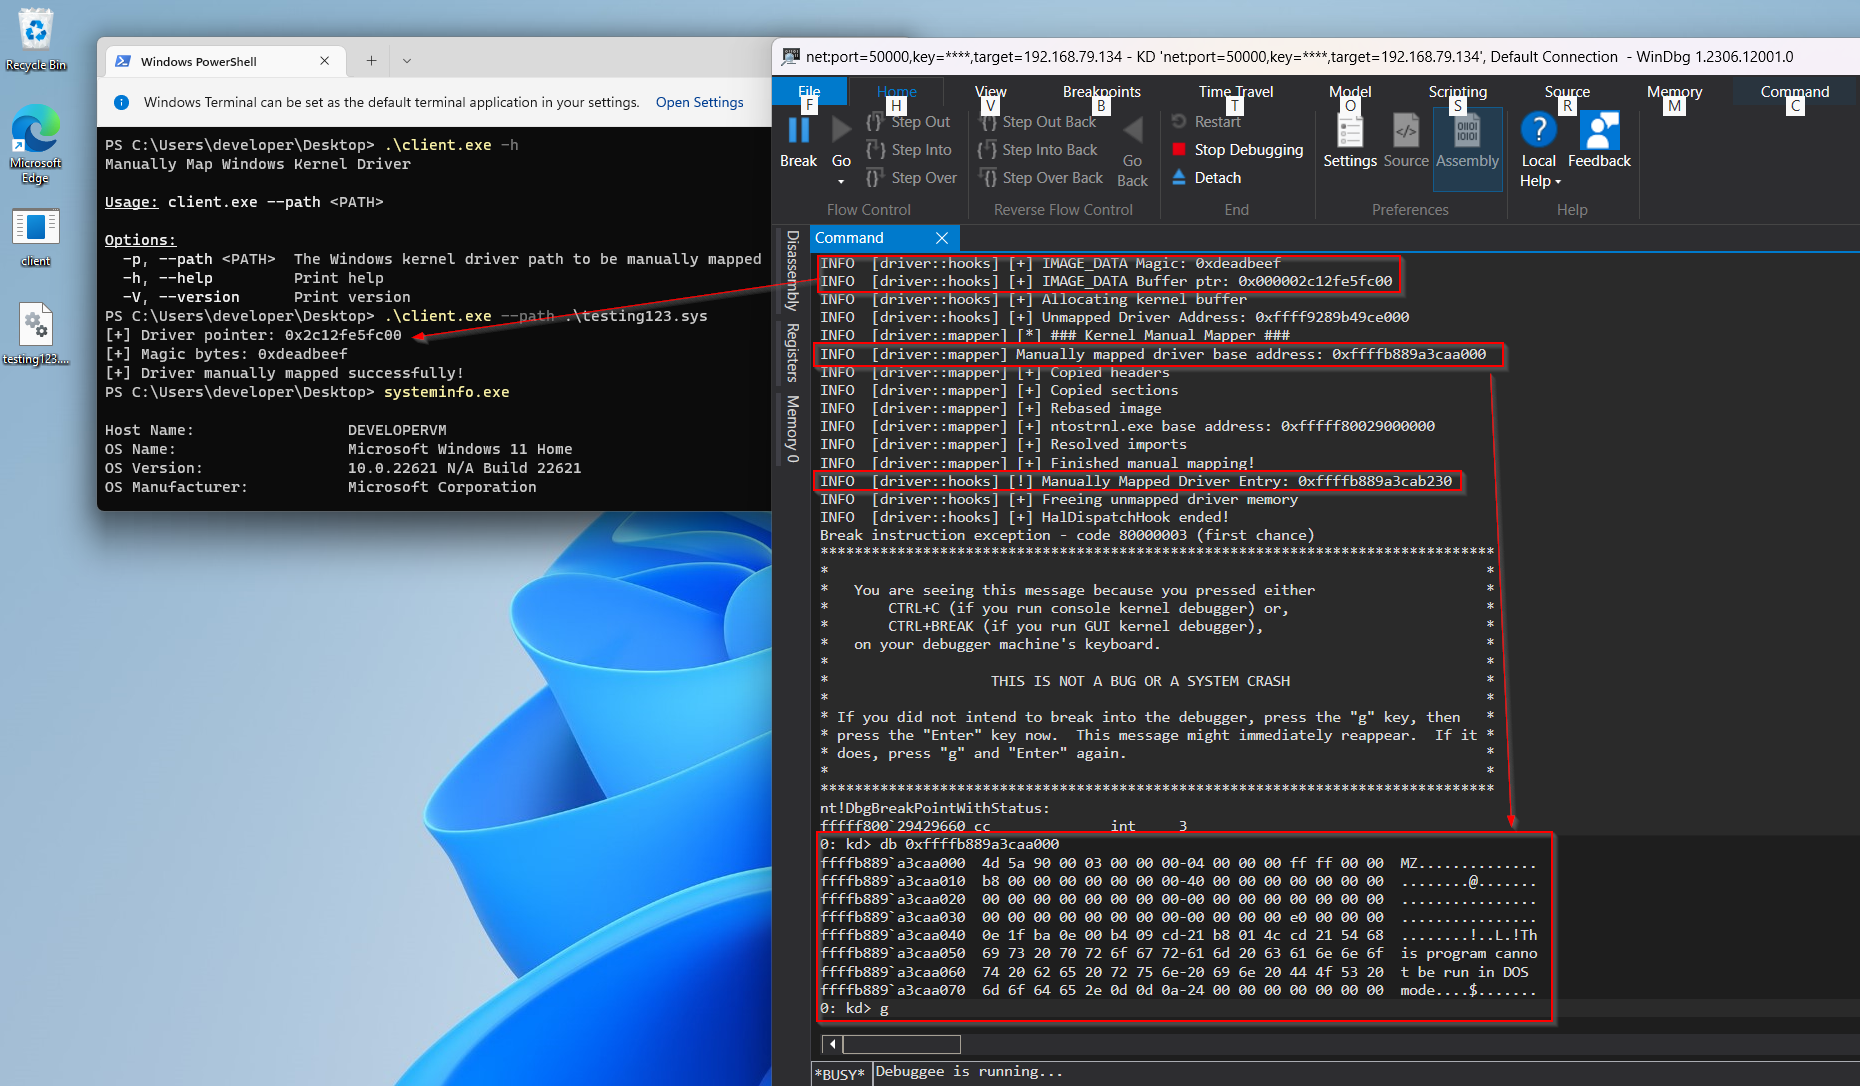
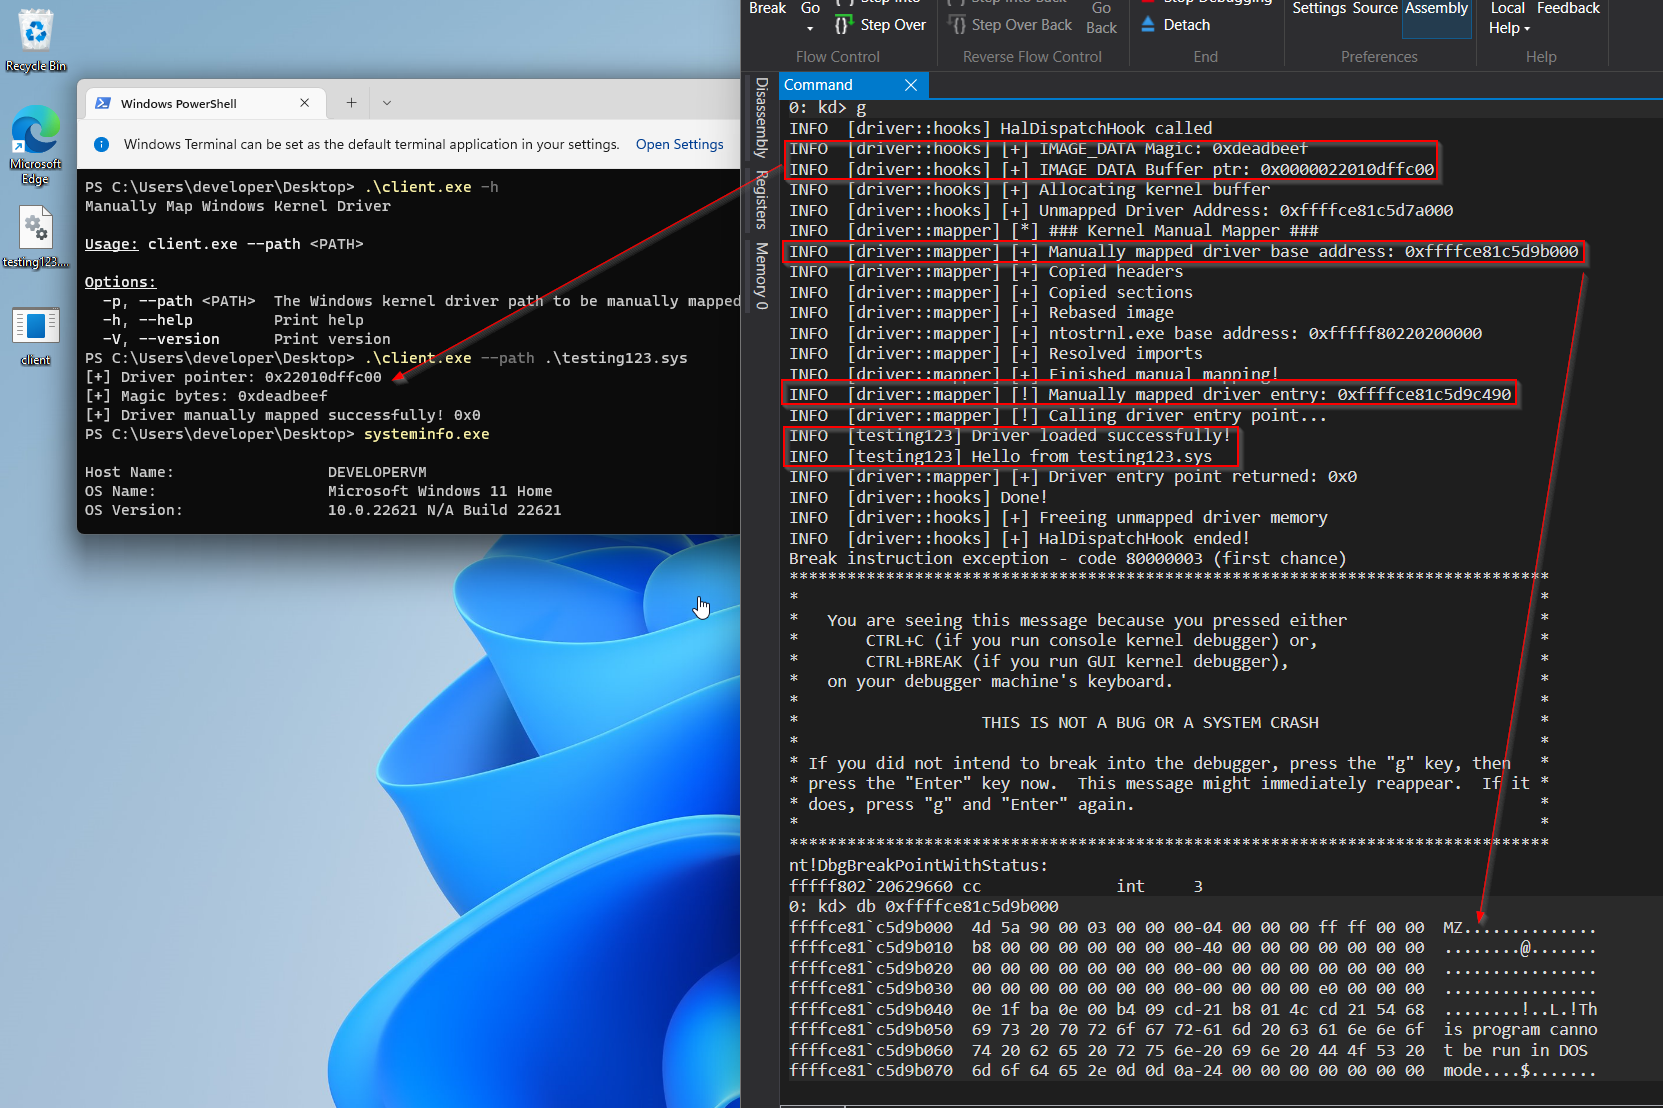
Mapped driver entry executed with NonPagedPoolExecute
* I had forgotten to push the commit for executing manually mapped driver's entry point.
* There was a bug in POOL_TYPE struct and it was not ported to Rust correctly.
* All fixed and working.
* Added testgin123 driver to test manual mapping
* Changed image in readme

diff --git a/driver/src/hooks/mod.rs b/driver/src/hooks/mod.rs
@@ -1,8 +1,6 @@
 use alloc::vec::Vec;
 extern crate alloc;
 use includes::ExGetPreviousMode;
-use kernel_alloc::nt::{ExAllocatePool, ExFreePool, PoolType};
-
 use mapper::manually_map;
 use winapi::{
     km::wdm::KPROCESSOR_MODE::UserMode,
@@ -15,7 +13,7 @@ use winapi::{
 use core::slice::from_raw_parts;
 
 use crate::{
-    includes,
+    includes::{self, ExAllocatePool, ExFreePool, NonPagedPool},
     mapper::{self, get_nt_headers},
     pe::{get_module_base, pattern_scan},
 };
@@ -31,7 +29,10 @@ pub fn setup_hooks() {
         unsafe { get_nt_headers(ntoskrnl_address as _).expect("Failed to get kernel nt headers") };
     let ntoskrnl_size = unsafe { (*nt_headers).OptionalHeader.SizeOfImage };
 
-    log::info!("[+] ntoskrnl.exe address: 0x{:x}", ntoskrnl_address as usize);
+    log::info!(
+        "[+] ntoskrnl.exe address: 0x{:x}",
+        ntoskrnl_address as usize
+    );
     log::info!("[+] ntoskrnl.exe size: 0x{:x}", ntoskrnl_size);
 
     // Read Windows kernel (ntoskrnl.exe) from memory and store in a slice
@@ -161,7 +162,7 @@ pub fn HalDispatchHook(image_data: *mut IMAGE_DATA, out_status: *mut i32) -> NTS
     log::info!("[+] Allocating kernel buffer");
 
     let unmapped_driver_kernel_buffer =
-        unsafe { ExAllocatePool(PoolType::NonPagedPool, (*image_data).buffer.len()) };
+        unsafe { ExAllocatePool(NonPagedPool, (*image_data).buffer.len()) };
 
     if unmapped_driver_kernel_buffer.is_null() {
         log::info!("[-] Failed to call ExAllocatePool");
@@ -182,22 +183,18 @@ pub fn HalDispatchHook(image_data: *mut IMAGE_DATA, out_status: *mut i32) -> NTS
         unmapped_driver_kernel_buffer
     );
 
-    let Some(mapped_driver_entry) = (unsafe { manually_map(unmapped_driver_kernel_buffer as _) }) else {
+    // Manually map the driver and call driver entry and return the status
+    let Some(status) = (unsafe { manually_map(unmapped_driver_kernel_buffer as _) }) else {
         log::info!("[-] Failed to manually map kernel driver");
         unsafe { ExFreePool(unmapped_driver_kernel_buffer as _) };
         unsafe { *out_status = STATUS_ACCESS_VIOLATION };
         return STATUS_SUCCESS;
     };
 
-    log::info!(
-        "[!] Manually mapped driver entry: {:#p}",
-        mapped_driver_entry
-    );
-    
     log::info!("Done!");
     log::info!("[+] Freeing unmapped driver memory");
     unsafe { ExFreePool(unmapped_driver_kernel_buffer as _) };
-    unsafe { *out_status = STATUS_SUCCESS as _ };
+    unsafe { *out_status = status };
 
     log::info!("[+] HalDispatchHook ended!");
     return STATUS_SUCCESS;

diff --git a/driver/src/mapper/mod.rs b/driver/src/mapper/mod.rs
@@ -1,6 +1,9 @@
-use kernel_alloc::nt::{ExAllocatePool, PoolType};
+use winapi::shared::ntdef::NTSTATUS;
 
-use crate::pe::get_module_base;
+use crate::{
+    includes::{ExAllocatePool, NonPagedPoolExecute},
+    pe::get_module_base,
+};
 
 use self::headers::{
     IMAGE_BASE_RELOCATION, IMAGE_DIRECTORY_ENTRY_BASERELOC, IMAGE_DIRECTORY_ENTRY_EXPORT,
@@ -10,22 +13,25 @@ use self::headers::{
     PIMAGE_SECTION_HEADER, PIMAGE_THUNK_DATA64,
 };
 
-use core::{mem::size_of, slice::from_raw_parts};
+use core::{mem::size_of, ptr::null_mut, slice::from_raw_parts};
 mod headers;
 
 /// Manually map Windows kernel driver and get address of entry point
-pub unsafe fn manually_map(module_base: *mut u8) -> Option<*mut u8> {
+pub unsafe fn manually_map(module_base: *mut u8) -> Option<i32> {
     log::info!("[*] ### Kernel Manual Mapper ###");
 
     let nt_headers = get_nt_headers(module_base).expect("Failed to get NT headers");
 
     // Allocate memory for the kernel driver in kernel space
     let new_module_base = ExAllocatePool(
-        PoolType::NonPagedPoolExecute,
+        NonPagedPoolExecute,
         (*nt_headers).OptionalHeader.SizeOfImage as usize,
     ) as *mut u8;
 
-    log::info!("[+] Manually mapped driver base address: {:p}", new_module_base);
+    log::info!(
+        "[+] Manually mapped driver base address: {:p}",
+        new_module_base
+    );
 
     // Copy DOS/NT headers to newly allocated memory
     copy_headers(module_base, new_module_base).expect("Failed to copy headers");
@@ -57,7 +63,21 @@ pub unsafe fn manually_map(module_base: *mut u8) -> Option<*mut u8> {
         + (*nt_headers).OptionalHeader.AddressOfEntryPoint as usize)
         as *mut u8;
 
-    return Some(manually_mapped_driver_entry);
+    log::info!(
+        "[!] Manually mapped driver entry: {:#p}",
+        manually_mapped_driver_entry
+    );
+
+    type DriverEntryType = fn(driver_object: *mut u8, registry_path: *mut u8) -> NTSTATUS;
+    let DriverEntry =
+        unsafe { core::mem::transmute::<_, DriverEntryType>(manually_mapped_driver_entry) };
+
+    // Call the driver entry point and return the status
+    log::info!("[!] Calling driver entry point...");
+    let status = DriverEntry(new_module_base, null_mut());
+    log::info!("[+] Driver entry point returned: {:#x}", status);
+
+    return Some(status);
 }
 
 /// Get a pointer to IMAGE_DOS_HEADER

diff --git a/testing123/src/lib.rs b/testing123/src/lib.rs
@@ -1,0 +1,56 @@
+#![no_std]
+#![allow(non_camel_case_types)]
+#![allow(non_snake_case)]
+#![allow(non_upper_case_globals)]
+
+extern crate alloc;
+use kernel_log::KernelLogger;
+use log::LevelFilter;
+use winapi::{
+    km::wdm::DRIVER_OBJECT,
+    shared::{
+        ntdef::{NTSTATUS, UNICODE_STRING},
+        ntstatus::STATUS_SUCCESS,
+    },
+};
+
+#[no_mangle]
+pub extern "system" fn __CxxFrameHandler3(_: *mut u8, _: *mut u8, _: *mut u8, _: *mut u8) -> i32 {
+    unimplemented!()
+}
+
+#[global_allocator]
+static GLOBAL: kernel_alloc::KernelAlloc = kernel_alloc::KernelAlloc;
+
+#[export_name = "_fltused"]
+static _FLTUSED: i32 = 0;
+
+#[allow(unused_imports)]
+use core::panic::PanicInfo;
+
+#[cfg(not(test))]
+#[panic_handler]
+fn panic(_info: &PanicInfo) -> ! {
+    loop {}
+}
+
+#[no_mangle]
+pub extern "system" fn driver_entry(
+    _driver_object: &mut DRIVER_OBJECT,
+    _registry_path: &UNICODE_STRING,
+) -> NTSTATUS {
+    KernelLogger::init(LevelFilter::Info).expect("Failed to initialize logger");
+    log::info!("Driver loaded successfully!");
+    log::info!("Hello from testing123.sys");
+
+    //_driver_object.DriverUnload = Some(driver_unload);
+
+    return STATUS_SUCCESS;
+}
+
+/*
+// When manually mapping a driver you don't call driver_unload. You restart the system instead.
+pub extern "system" fn driver_unload(_driver: &mut DRIVER_OBJECT) {
+    log::info!("Driver unloaded successfully!");
+}
+*/

diff --git a/driver/src/pe/mod.rs b/driver/src/pe/mod.rs
@@ -3,7 +3,6 @@ use core::ptr::null_mut;
 use alloc::vec::Vec;
 extern crate alloc;
 use bstr::ByteSlice;
-use kernel_alloc::nt::{ExAllocatePool, ExFreePool};
 use winapi::{
     ctypes::c_void,
     shared::ntdef::NT_SUCCESS,
@@ -15,7 +14,9 @@ use winapi::{
 
 use crate::{
     includes::SystemInformationClass,
-    includes::{SystemModuleInformation, ZwQuerySystemInformation},
+    includes::{
+        ExAllocatePool, ExFreePool, NonPagedPool, SystemModuleInformation, ZwQuerySystemInformation,
+    },
 };
 
 pub fn get_module_base(module_name: &[u8]) -> *mut c_void {
@@ -37,10 +38,8 @@ pub fn get_module_base(module_name: &[u8]) -> *mut c_void {
         return null_mut();
     } */
 
-    let module_info = unsafe {
-        ExAllocatePool(kernel_alloc::nt::PoolType::NonPagedPool, bytes as usize)
-            as *mut SystemModuleInformation
-    };
+    let module_info =
+        unsafe { ExAllocatePool(NonPagedPool, bytes as usize) as *mut SystemModuleInformation };
 
     if module_info.is_null() {
         log::error!("[-] ExAllocatePool failed");

diff --git a/driver/src/includes/mod.rs b/driver/src/includes/mod.rs
@@ -89,7 +89,20 @@ extern "system" {
         previous_mode: KPROCESSOR_MODE,
         bytes_copied: &mut usize,
     ) -> NTSTATUS;
+
+    /// https://learn.microsoft.com/en-us/windows-hardware/drivers/ddi/wdm/nf-wdm-exallocatepool
+    pub fn ExAllocatePool(pool_type: POOL_TYPE, number_of_bytes: usize) -> *mut u64;
+
+    /// https://learn.microsoft.com/en-us/windows-hardware/drivers/ddi/wdm/nf-wdm-exfreepool
+    pub fn ExFreePool(pool: u64);
 }
+
+// Credits: https://github.com/microsoft/windows-rs/blob/a817607f4a48c891e4d598b40b8685c59d18743b/crates/libs/sys/src/Windows/Wdk/Foundation/mod.rs#L60
+// https://www.vergiliusproject.com/kernels/x64/Windows%2011/22H2%20(2022%20Update)/_POOL_TYPE
+pub type POOL_TYPE = i32;
+pub const NonPagedPool: POOL_TYPE = 0i32;
+pub const NonPagedPoolExecute: POOL_TYPE = 0i32;
+pub const PagedPool: POOL_TYPE = 1i32;
 
 #[repr(u32)]
 #[derive(Debug, Copy, Clone, PartialEq, Eq)]

diff --git a/client/src/main.rs b/client/src/main.rs
@@ -32,7 +32,7 @@ fn main() {
     match Communication::new() {
         Ok(communication) => match communication.send_request(&mut image_data) {
             Ok(status) => {
-                println!("[+] Driver manually mapped successfully! {:#x}", status); // I did not return the status from kernel mode but you can do that easily.
+                println!("[+] Driver manually mapped successfully! {:#x}", status);
             }
             Err(e) => {
                 println!("[-] Failed to send request: {:?}", e);
